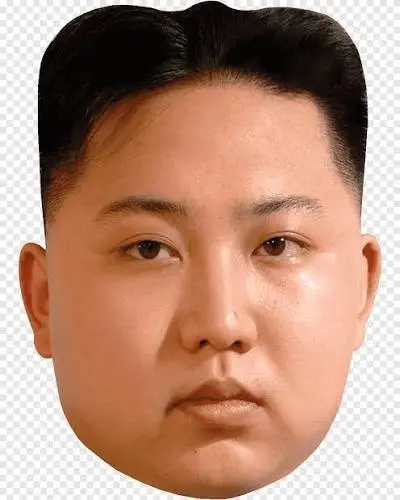
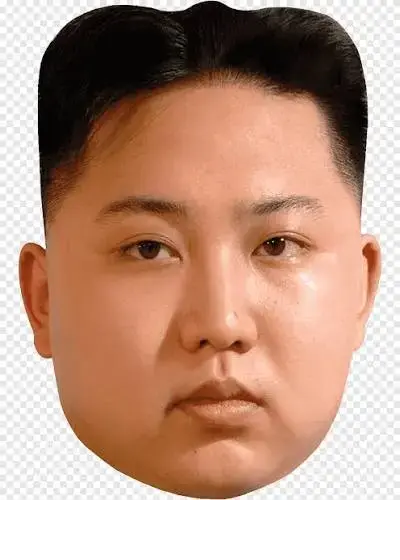
Fix Kim boss head clipping by enlarging photo plane and removing voxel hair.

diff --git a/lib/m4-kim-boss-runtime.js b/lib/m4-kim-boss-runtime.js
@@ -43,7 +43,6 @@ export function createM4KimBossVisual(THREE, lowDetail = false) {
   const suitDark = mat('#27272a', 0.72, 0.1)
   const trouserBlack = mat('#18181b', 0.78, 0.06)
   const shoeMat = mat('#0a0a0a', 0.55, 0.12)
-  const hairMat = mat('#111827', 0.42, 0.08)
   const starRed = basic('#dc2626')
   const starGold = basic('#facc15')
 
@@ -86,14 +85,10 @@ export function createM4KimBossVisual(THREE, lowDetail = false) {
   attachBossHeadPhoto(THREE, bodyPivot, M4_KIM_HEAD_TEXTURE_URL, lowDetail, {
     name: 'm4KimHeadPhoto',
     planeWidth: 0.46,
-    planeHeight: 0.56,
-    y: 1.02,
+    planeHeight: 0.62,
+    y: 1.03,
     z: -0.132,
   })
-  addBox(bodyPivot, 0.08, 0.22, 0.18, hairMat, -0.19, 1.04, 0.04)
-  addBox(bodyPivot, 0.08, 0.22, 0.18, hairMat, 0.19, 1.04, 0.04)
-  addBox(bodyPivot, 0.30, 0.12, 0.26, hairMat, 0, 1.28, 0.08)
-  addBox(bodyPivot, 0.22, 0.08, 0.22, hairMat, 0, 1.38, 0.10)
 
   const shadow = new THREE.Mesh(
     new THREE.CircleGeometry(0.58, 24),